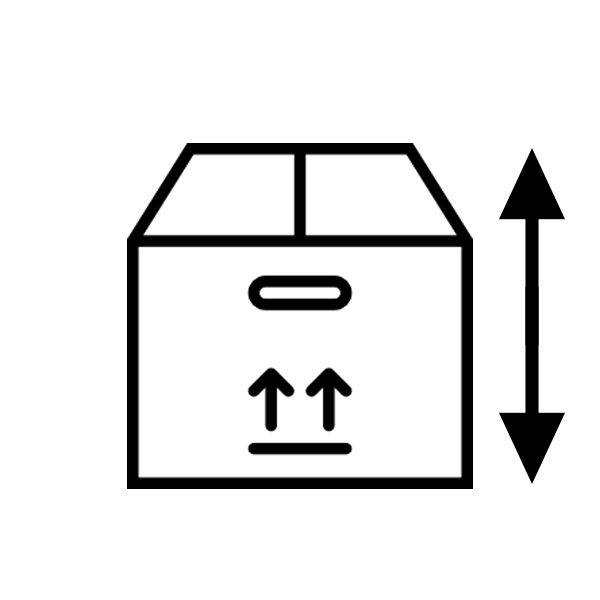
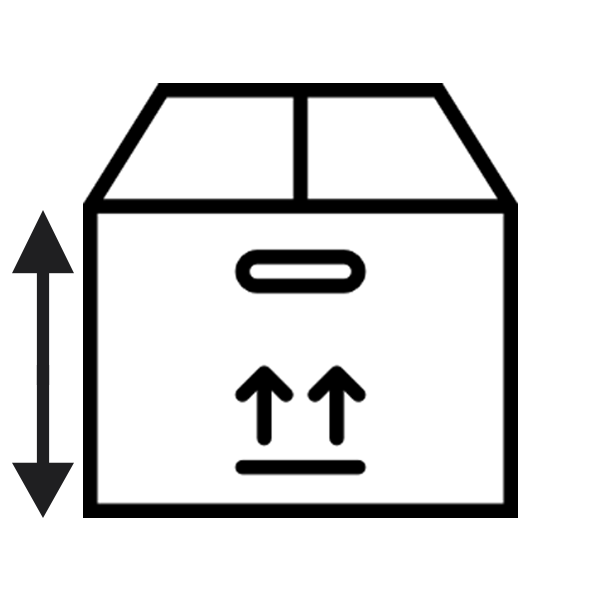
add: resize image + form lg-carrier

Changed region(s): [[0.03, 0.12, 0.96, 0.87]]

diff --git a/app/lg-carrier/tmpl/carrier-create.html b/app/lg-carrier/tmpl/carrier-create.html
@@ -4,16 +4,48 @@
 	<subtitle>Ajouter une annonce</subtitle>
 </div>
 <form class="ad" name="carrierCtrl">
-	<section>
+	<section class="dark">
 		<label>Libellé unique du camion</label>
 		<input type="text" placeholder="Ex : Camion 1" ng-model="$ctrl.carrier.createData.name" required/>
 	</section>
 	<section>
-		<label>Type</label>
-		<input type="choice" choices="$root.config.vehicleTypes" title="Type de véhicule" placeholder="Ex : Benne, Bâché, etc." ng-model="$ctrl.carrier.createData.type"
-			required/>
-		<label>Remorque</label>
-		<comment>Mesures en mètre</comment>
+		<big-label>Origine</big-label>
+		<label>Pays</label>
+		<input type="choice" choices="$root.config.countries" title="Pays d\'origine" placeholder="Ex : Algérie, Maroc, etc." ng-model="$ctrl.carrier.createData.country"
+		/>
+		<label>Ville</label>
+		<input type="choice" options="{place:true}" choices="$root.config.cities" title="Ville" placeholder="Ex : Oran, Alger, etc." ng-model="$ctrl.carrier.createData.city"
+		/>
+	</section>
+	<section class="dark">
+		<big-label>Transport</big-label>
+		<label>Type de transport</label>
+		<input type="choice" choices="$root.config.transportCategories" title="Moyen de transport" placeholder="Ex : Camion, Bateau, etc."
+			ng-model="$ctrl.loader.createData.transportCategory" />
+
+		<div ng-show="$ctrl.loader.createData.transportCategory === 'Camion'">
+			<label>Type de camion</label>
+			<input type="choice" choices="$root.config.transportTruckTypes" title="Type de camion" placeholder="Ex : Benne, Bâché, etc."
+				ng-model="$ctrl.loader.createData.transportTruckType" />
+		</div>
+		<div ng-show="$ctrl.loader.createData.transportCategory === 'Bateau'">
+			<label>Type de bateau</label>
+			<input type="choice" choices="$root.config.transportBoatTypes" title="Type de bateau" placeholder="Ex : Barge, Navire  Lo-Lo, etc."
+				ng-model="$ctrl.loader.createData.transportBoatType" />
+		</div>
+		<div ng-show="$ctrl.loader.createData.transportCategory === 'Avion'">
+			<label>Type d'avion</label>
+			<input type="choice" choices="$root.config.transportPlaneTypes" title="Type d\'avion" placeholder="Ex : Cargo, Passagers, etc."
+				ng-model="$ctrl.loader.createData.transportPlaneType" />
+		</div>
+	</section>
+	<section>
+		<big-label>Chargement</big-label>
+		<label>Volume max. (en m3)</label>
+		<input type="num" placeholder="Volume max." ng-model="$ctrl.carrier.createData.maxVolume" />
+		<label>Poids max. (en tonne)</label>
+		<input type="num" placeholder="Poids max." ng-model="$ctrl.carrier.createData.maxWeight" />
+		<label>Dimension en mètre</label>
 		<carrier-dim>
 			<dimension>
 				<div>
@@ -36,36 +68,14 @@
 		<label>Année du camion</label>
 		<input type="choice" choices="$root.config.years" title="Année du camion" placeholder="Ex : 2005, 2006, 2007" ng-model="$ctrl.carrier.createData.birthyear"
 		/>
-		<div class="photo">
-			<label>Insérer une photo</label>
-			<lg-upload form-data="{suffix: '_ad123'}"></lg-upload>
-		</div>
+		<label>Insérer une photo</label>
+		<lg-upload form-data="{suffix: '_ad123'}"></lg-upload>
 	</section>
-	<section>
-		<big-label>Origine</big-label>
-		<label>Pays</label>
-		<input type="choice" choices="$root.config.countries" title="Pays d\'origine" placeholder="Ex : Algérie, Maroc, etc." ng-model="$ctrl.carrier.createData.country"
-		/>
-		<label>Ville</label>
-		<input type="choice" choices="$root.config.cities" title="Ville" placeholder="Ex : Oran, Alger, etc." ng-model="$ctrl.carrier.createData.city"
-		/>
-	</section>
-	<section>
-		<big-label>Chargement</big-label>
-		<label>Type</label>
-		<input type="choice" choices="$root.config.conditionings" title="Type de conditionnement" placeholder="Ex : Colis, Palettes, Vrac"
-			ng-model="$ctrl.carrier.createData.conditioning" />
-		<div class="complement">
-			<label>Volume max. (en m3)</label>
-			<input type="num" placeholder="Volume max." ng-model="$ctrl.carrier.createData.maxVolume" />
-		</div>
-		<div class="complement">
-			<label>Poids max. (en tonne)</label>
-			<input type="num" placeholder="Poids max." ng-model="$ctrl.carrier.createData.maxWeight" />
-		</div>
-	</section>
-	<section>
+	<section class="dark">
+		<big-label>Finaliser</big-label>
+		<label>Attention</label>
+		<comment>En appuyant sur le bouton "Enregistrer", j'accepte les conditions d'utilisations du site.</comment>
 		<lg-error error="$ctrl.loader.error"></lg-error>
-		<button ng-click="$ctrl.carrier.create();">Ajouter une annonce ></button>
+		<button ng-click="$ctrl.loader.create()">Déposer votre annonce</button>
 	</section>
 </form>

diff --git a/app/lg-truck/tmpl/truck-create.html b/app/lg-truck/tmpl/truck-create.html
@@ -5,16 +5,48 @@
 </div>
 
 <form class="ad" name="truckCtrl">
-	<section>
+	<section class="dark">
 		<label>Libellé unique du camion</label>
 		<input type="text" placeholder="Ex : Camion 1" ng-model="$ctrl.truck.createData.name" required/>
 	</section>
 	<section>
-		<label>Type</label>
-		<input type="choice" choices="$root.config.vehicleTypes" title="Type de véhicule" placeholder="Ex : Benne, Bâché, etc." ng-model="$ctrl.truck.createData.type"
-			required/>
-		<label>Remorque</label>
-		<comment>Mesures en mètre</comment>
+		<big-label>Origine</big-label>
+		<label>Pays</label>
+		<input type="choice" choices="$root.config.countries" title="Pays d\'origine" placeholder="Ex : Algérie, Maroc, etc." ng-model="$ctrl.truck.createData.country"
+		/>
+		<label>Ville</label>
+		<input type="choice" options="{place:true}" choices="$root.config.cities" title="Ville" placeholder="Ex : Oran, Alger, etc." ng-model="$ctrl.truck.createData.city"
+		/>
+	</section>
+	<section class="dark">
+		<big-label>Transport</big-label>
+		<label>Type de transport</label>
+		<input type="choice" choices="$root.config.transportCategories" title="Moyen de transport" placeholder="Ex : Camion, Bateau, etc."
+			ng-model="$ctrl.loader.createData.transportCategory" />
+
+		<div ng-show="$ctrl.loader.createData.transportCategory === 'Camion'">
+			<label>Type de camion</label>
+			<input type="choice" choices="$root.config.transportTruckTypes" title="Type de camion" placeholder="Ex : Benne, Bâché, etc."
+				ng-model="$ctrl.loader.createData.transportTruckType" />
+		</div>
+		<div ng-show="$ctrl.loader.createData.transportCategory === 'Bateau'">
+			<label>Type de bateau</label>
+			<input type="choice" choices="$root.config.transportBoatTypes" title="Type de bateau" placeholder="Ex : Barge, Navire  Lo-Lo, etc."
+				ng-model="$ctrl.loader.createData.transportBoatType" />
+		</div>
+		<div ng-show="$ctrl.loader.createData.transportCategory === 'Avion'">
+			<label>Type d'avion</label>
+			<input type="choice" choices="$root.config.transportPlaneTypes" title="Type d\'avion" placeholder="Ex : Cargo, Passagers, etc."
+				ng-model="$ctrl.loader.createData.transportPlaneType" />
+		</div>
+	</section>
+	<section>
+		<big-label>Chargement</big-label>
+		<label>Volume max. (en m3)</label>
+		<input type="num" placeholder="Volume max." ng-model="$ctrl.truck.createData.maxVolume" />
+		<label>Poids max. (en tonne)</label>
+		<input type="num" placeholder="Poids max." ng-model="$ctrl.truck.createData.maxWeight" />
+		<label>Dimension en mètre</label>
 		<truck-dim>
 			<dimension>
 				<div>
@@ -37,36 +69,11 @@
 		<label>Année du camion</label>
 		<input type="choice" choices="$root.config.years" title="Année du camion" placeholder="Ex : 2005, 2006, 2007" ng-model="$ctrl.truck.createData.birthyear"
 		/>
-		<div class="photo">
-			<label>Inserer une photo</label>
-			<lg-upload form-data="{suffix: '_ad123'}"></lg-upload>
-		</div>
+		<label>Insérer une photo</label>
+		<lg-upload form-data="{suffix: '_ad123'}"></lg-upload>
 	</section>
-	<section>
-		<big-label>Origine</big-label>
-		<label>Pays</label>
-		<input type="choice" choices="$root.config.countries" title="Pays d\'origine" placeholder="Ex : Algérie, Maroc, etc." ng-model="$ctrl.truck.createData.country"
-		/>
-		<label>Ville</label>
-		<input type="choice" choices="$root.config.cities" title="Ville" placeholder="Ex : Oran, Alger, etc." ng-model="$ctrl.truck.createData.city"
-		/>
-	</section>
-	<section>
-		<big-label>Chargement</big-label>
-		<label>Type</label>
-		<input type="choice" choices="$root.config.conditionings" title="Type de conditionnement" placeholder="Ex : Colis, Palettes, Vrac"
-			ng-model="$ctrl.truck.createData.conditioning" />
-		<div class="complement">
-			<label>Volume max. (en m3)</label>
-			<input type="num" placeholder="Volume max." ng-model="$ctrl.truck.createData.maxVolume" />
-		</div>
-		<div class="complement">
-			<label>Poids max. (en tonne)</label>
-			<input type="num" placeholder="Poids max." ng-model="$ctrl.truck.createData.maxWeight" />
-		</div>
-	</section>
-	<section>
+	<section class="dark">
 		<lg-error error="$ctrl.truck.error"></lg-error>
-		<button ng-click="$ctrl.truck.create();">Ajouter ce véhicule à ma flotte ></button>
+		<button ng-click="$ctrl.truck.create();">Ajouter ce véhicule à ma flotte</button>
 	</section>
 </form>

diff --git a/app/lg-route/tmpl/home.html b/app/lg-route/tmpl/home.html
@@ -4,7 +4,7 @@
 <div class="square-parent">
 	<div class="square">
 		<div>
-			<a ui-sref="carrier:listAd">
+			<a ui-sref="carrier:list">
 				<img class="lg-svg" src="img/frontal-truck.svg" />
 				<p>Voir</p>
 			</a>
@@ -12,7 +12,7 @@
 	</div>
 	<div class="square">
 		<div>
-			<a ui-sref="carrier:createAdStep1">
+			<a ui-sref="carrier:create">
 				<img class="lg-svg" src="img/add-file.svg" />
 				<p>Déposer</p>
 			</a>

diff --git a/app/lg-carrier/lg-carrier-route.js b/app/lg-carrier/lg-carrier-route.js
@@ -19,7 +19,6 @@ app.config(['$stateProvider', function($stateProvider) {
 		name: 'carrier:create',
 		url: '/create-carrier',
 		component: 'lgCarrierCreateRoute',
-		needsUser: true
 	});
 	$stateProvider.state({
 		name: 'carrier:created',
